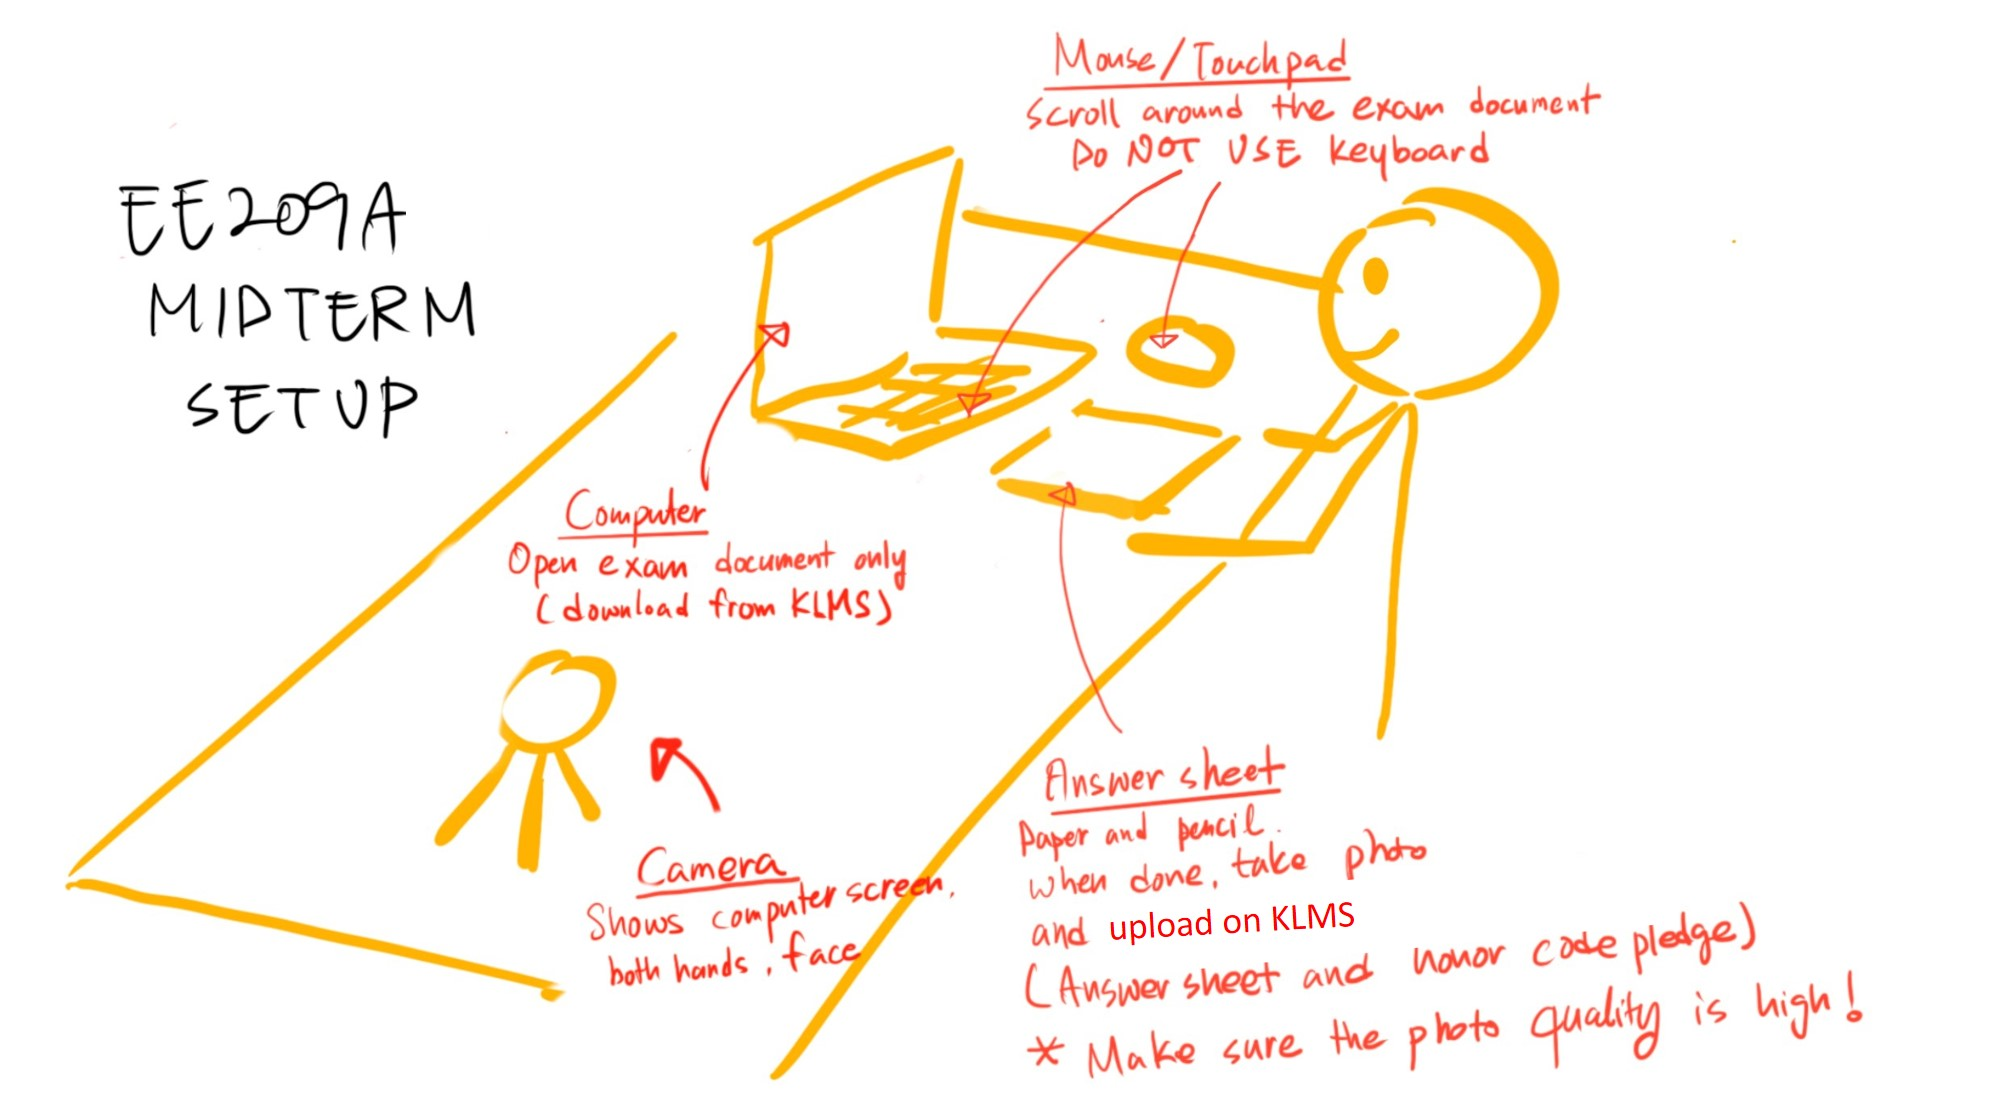
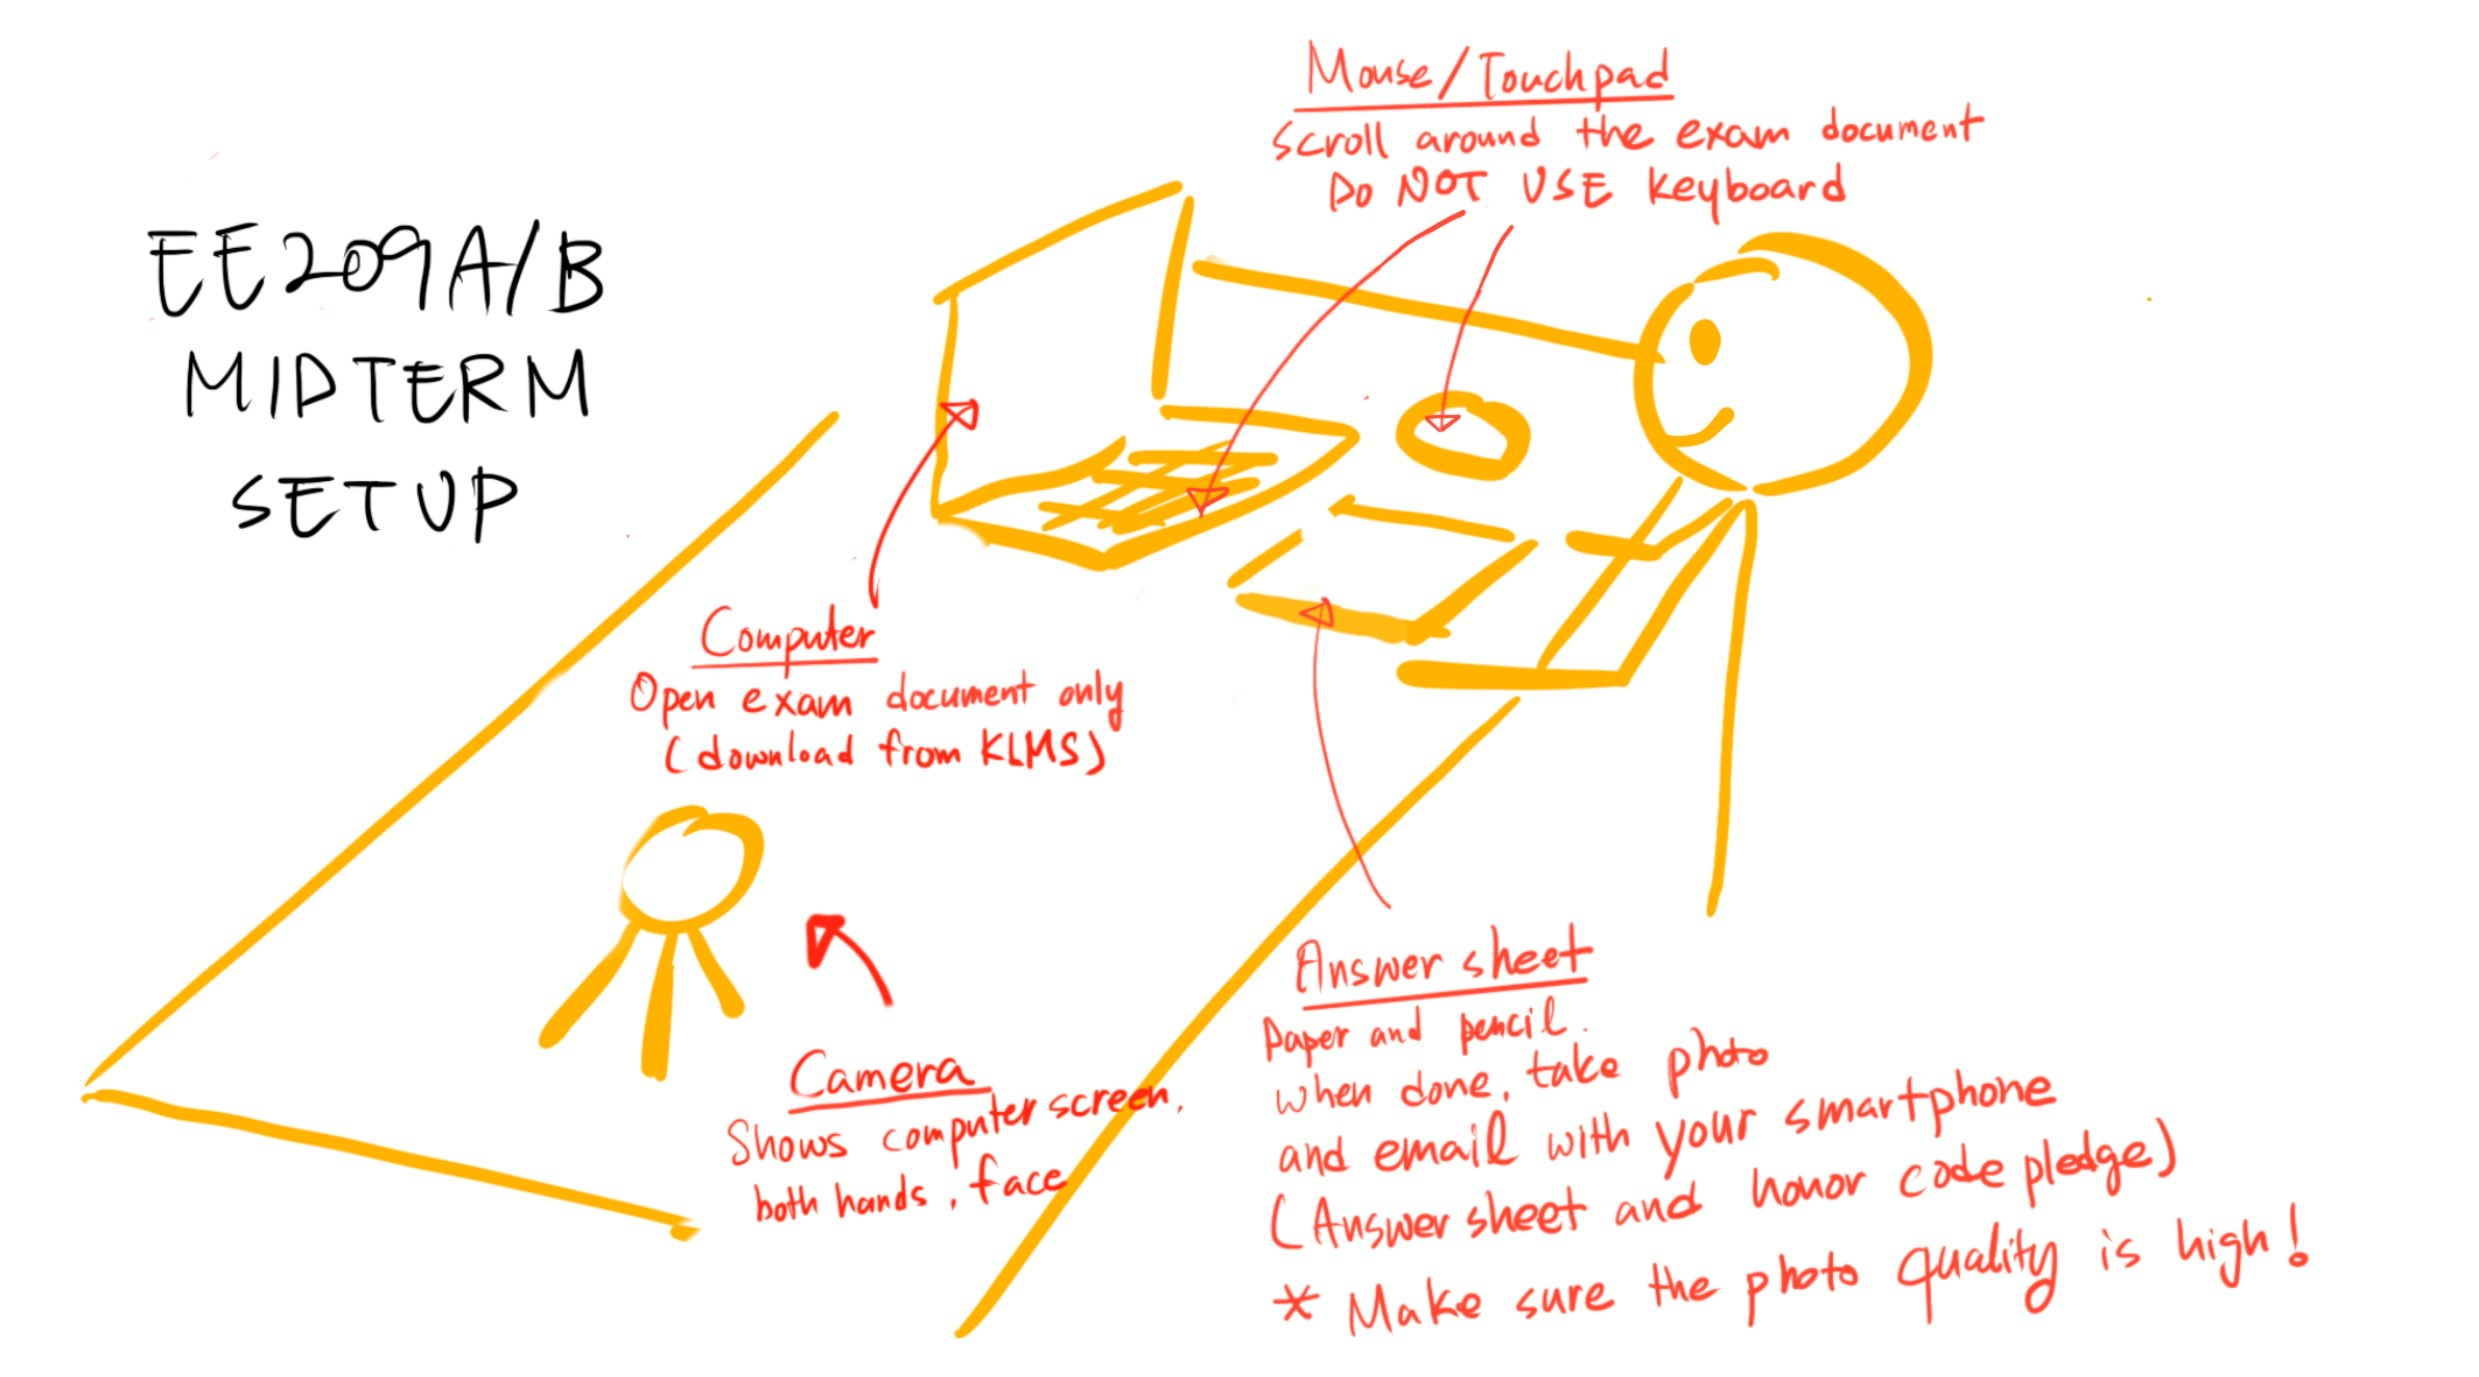
.

Changed region(s): [[0.558, 0.7651, 0.837, 0.8569], [0.186, 0.153, 0.248, 0.2448]]

diff --git a/exam/midterm.html b/exam/midterm.html
@@ -29,10 +29,27 @@
         <h4 class="ui center aligned header" id="timer">&nbsp;</h4>
     </div>
 
-    <h2 class="ui dividing header">Schedule</h2>
+    <h2 class="ui dividing header">Guideline</h2>
     <p>Midterm exam: Wednesday (10/21) 9:00 AM - 11:45 AM </p>
+    <p>Closde book, </p>
 
-    <h2 class="ui dividing header">Environment Setup</h2>
+    <a href = "https://docs.google.com/spreadsheets/d/188zLJHcK8_qC2N82E6ZH-GRXCtziiRR9F2XZ0F-Ce1s/edit?usp=sharing">Zoom link</a>
+
+    <h2 class="ui dividing header">Procedure (Please Follow Step by Step)</h2>
+    <h3>1. Preparation : Before midterm exam</h3>
+    You should prepare three things before midterm exam.<br>
+    1) Download "Honor Code Pledge" from KLMS and sign (Check below detail information).<br>
+    2) Prepare test environment setting (Check below detail information).<br>
+    3) Prepare A4 papers for your answer sheet. DO NOT use reusable paper (e.g., 이면지).<br>
+
+    <h3>2. Preparation</h3>
+
+
+    <h3>3. Submission guideline</h3>
+    You should submit two
+
+    <h2 class="ui dividing header">Detail information</h2>
+    <h3>Environment setup</h3>
     <p><img src="setup.jpg" width="900"></p>
 
 <script src="../../vendor/moment.min.js"></script>

diff --git a/_layouts/page.html b/_layouts/page.html
@@ -11,11 +11,4 @@ layout: default
     {{ content }}
   </div>
 
-  .alert {
-    padding: 20px;
-    background-color: #f44336; /* Red */
-    color: white;
-    margin-bottom: 15px;
-  }
-
 </article>

diff --git a/announcementsA.md b/announcementsA.md
@@ -4,8 +4,6 @@ title: Announcements-209A
 permalink: /announcements-209A/
 ---
 
-<!-- <p2> Midterm Exam </p2> -->
-
 Announcements will be posted at the KLMS course page:
 <li class="toclevel-1"> <a href="http://klms.kaist.ac.kr/course/view.php?id=118849">EE209A Course Page</a><br>
 
